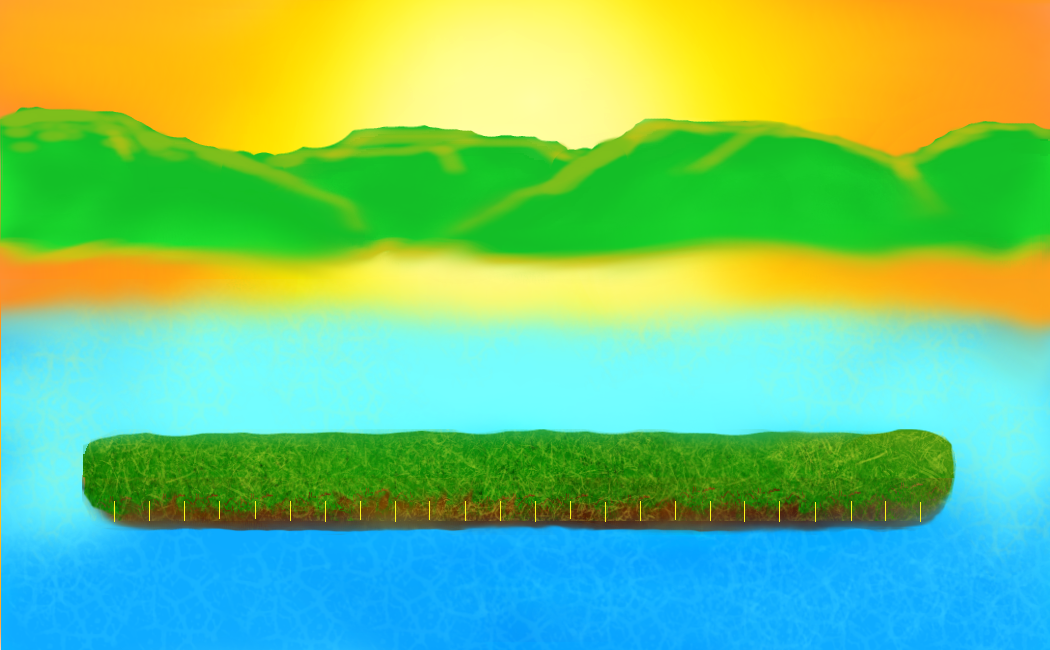
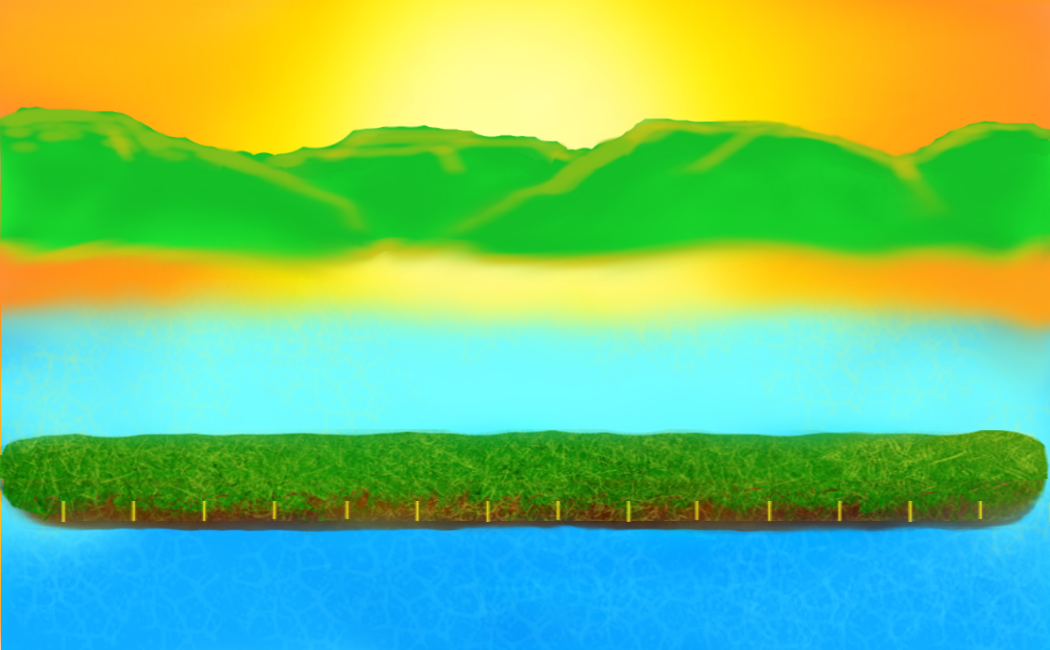
Changed some math to make things based on gridNumbers and gridWidth instead of hardcoded.  This makes it easy to play with sizes and positions.  I also updated the island to be as wide as the image and set the number of grids to 15 instead of 24.

Changed region(s): [[0.0, 0.6462, 1.0, 0.8308]]

diff --git a/cmpsc488/botbattleapp/nodejs_applications/static/javascript/game.js b/cmpsc488/botbattleapp/nodejs_applications/static/javascript/game.js
@@ -255,14 +255,14 @@ function Drawer() {
       TEST_ARENA.context.fillStyle="black";
       
       // TODO  fix this like above mentions
-      if((p1Grid >= 0 && p1Grid <= 24) && (p2Grid >= 0 && p2Grid <= 24)){
+      if((p1Grid >= 0 && p1Grid <= GAME.gameboard.numberOfGrids - 1) && (p2Grid >= 0 && p2Grid <= GAME.gameboard.numberOfGrids - 1)){
         TEST_ARENA.context.fillText(Math.floor(distanceBetweenPlayers), 495 * TEST_ARENA.scale, 550 * TEST_ARENA.scale);
       }
       else{
           if(p1Grid < 0){
             TEST_ARENA.context.fillText("Player 2 Wins", 405 * TEST_ARENA.scale, 550 * TEST_ARENA.scale);
           }
-          if(p2Grid > 24){
+          if(p2Grid > GAME.gameboard.numberOfGrids - 1){
             TEST_ARENA.context.fillText("Player 1 Wins", 405 * TEST_ARENA.scale, 550 * TEST_ARENA.scale);
           }
       }
@@ -335,16 +335,16 @@ var GameBoard = function() {
   
   this.backGroundWidth = 1050;
   this.backGroundHeight = 650;
-  this.islandWidth = 870;
-  this.islandStart = 80; // Changed from 83
+  this.islandWidth = self.backGroundWidth;
+  this.islandStart = 0; 
   this.islandCenterHeight = 468;
-  this.robotWidth = 74;
-  this.robotHeight = 101;
-  this.numberOfGrids = 25;
-  this.gridWidth = self.islandWidth/25;
+  this.robotHeight = 90;
+  this.numberOfGrids = 15;
+  this.gridWidth = self.islandWidth/self.numberOfGrids;
+  this.robotWidth = self.gridWidth;
   this.gridCenter = self.gridWidth/2;
-  this.player1StartX = (0 * self.gridWidth) + self.islandStart;// - (self.robotWidth/2) + self.gridCenter;
-  this.player2StartX = (24 * self.gridWidth) + self.islandStart;// - (self.robotWidth/2) + self.gridCenter;
+  this.player1StartX = (0 * self.gridWidth);// + self.islandStart;// - (self.robotWidth/2) + self.gridCenter;
+  this.player2StartX = ((self.numberOfGrids - 1) * self.gridWidth);// + self.islandStart;// - (self.robotWidth/2) + self.gridCenter;
   this.player1StartY = self.islandCenterHeight - self.robotHeight;
   this.player2StartY = self.islandCenterHeight - self.robotHeight;  
   this.player1PositionX = self.player1StartX;
@@ -391,6 +391,7 @@ var GameBoard = function() {
       'imageSrc' : 'static/images/StandingRight.png',
       'sourceX' : 0,
       'sourceY' : 0,
+      'sourceHeight' : 101,
       'sourceWidth' : 296,
       'x' : self.player1PositionX,
       'y' : self.player1PositionY,
@@ -407,6 +408,7 @@ var GameBoard = function() {
         'imageSrc' : 'static/images/StandingLeft.png',
         'sourceX' : 0,
         'sourceY' : 0,
+        'sourceHeight' : 101,
         'sourceWidth' : 296,
         'x' : self.player2PositionX,
         'y' : self.player2PositionY,
@@ -423,6 +425,7 @@ var GameBoard = function() {
         'imageSrc' : 'static/images/RunningRight.png',
         'sourceX' : 0,
         'sourceY' : 0,
+        'sourceHeight' : 101,
         'sourceWidth' : 592,
         'x' : self.player1PositionX,
         'y' : self.player1PositionY,
@@ -439,6 +442,7 @@ var GameBoard = function() {
         'imageSrc' : 'static/images/RunningLeft.png',
         'sourceX' : 0,
         'sourceY' : 0,
+        'sourceHeight' : 101,
         'sourceWidth' : 592,
         'x' : self.player2PositionX,
         'y' : self.player2PositionY,
@@ -455,6 +459,7 @@ var GameBoard = function() {
         'imageSrc' : 'static/images/BlockingRight.png',
         'sourceX' : 0,
         'sourceY' : 0,
+        'sourceHeight' : 101,
         'sourceWidth' : 518,
         'x' : self.player1PositionX,
         'y' : self.player1PositionY,
@@ -471,6 +476,7 @@ var GameBoard = function() {
         'imageSrc' : 'static/images/BlockingLeft.png',
         'sourceX' : 0,
         'sourceY' : 0,
+        'sourceHeight' : 101,
         'sourceWidth' : 518,
         'x' : self.player2PositionX,
         'y' : self.player2PositionY,
@@ -487,10 +493,11 @@ var GameBoard = function() {
         'imageSrc' : 'static/images/ShootingRight.png',
         'sourceX' : 0,
         'sourceY' : 0,
+        'sourceHeight' : 101,
         'sourceWidth' : 360,
         'x' : self.player1PositionX,
         'y' : self.player1PositionY,
-        'width' : 90,
+        'width' : self.robotWidth,
         'height' : self.robotHeight,
         'ticksPerFrame' : 12, 
         'numberOfFrames' : 4,
@@ -503,10 +510,11 @@ var GameBoard = function() {
         'imageSrc' : 'static/images/ShootingLeft.png',
         'sourceX' : 0,
         'sourceY' : 0,
+        'sourceHeight' : 101,
         'sourceWidth' : 360,
         'x' : self.player2PositionX,
         'y' : self.player2PositionY,
-        'width' : 90,
+        'width' : self.robotWidth,
         'height' : self.robotHeight,
         'ticksPerFrame' : 12, 
         'numberOfFrames' : 4,
@@ -519,6 +527,7 @@ var GameBoard = function() {
         'imageSrc' : 'static/images/FallingRight.png',
         'sourceX' : 0,
         'sourceY' : 0,
+        'sourceHeight' : 101,
         'sourceWidth' : 74,
         'x' : self.player1PositionX,
         'y' : self.player1PositionY,
@@ -535,6 +544,7 @@ var GameBoard = function() {
         'imageSrc' : 'static/images/FallingLeft.png',
         'sourceX' : 0,
         'sourceY' : 0,
+        'sourceHeight' : 101,
         'sourceWidth' : 74,
         'x' : self.player1PositionX,
         'y' : self.player1PositionY,
